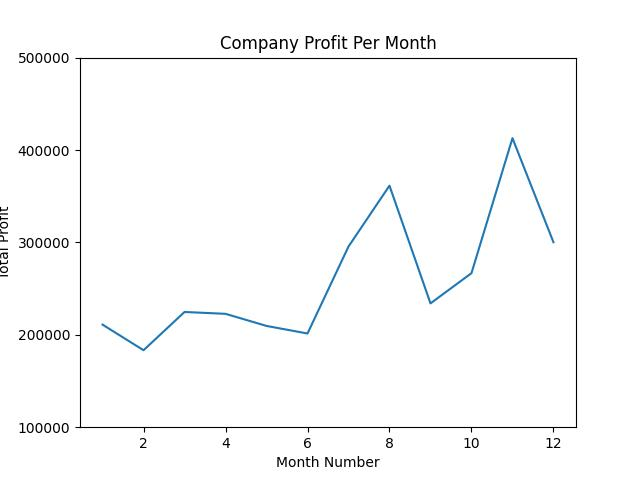
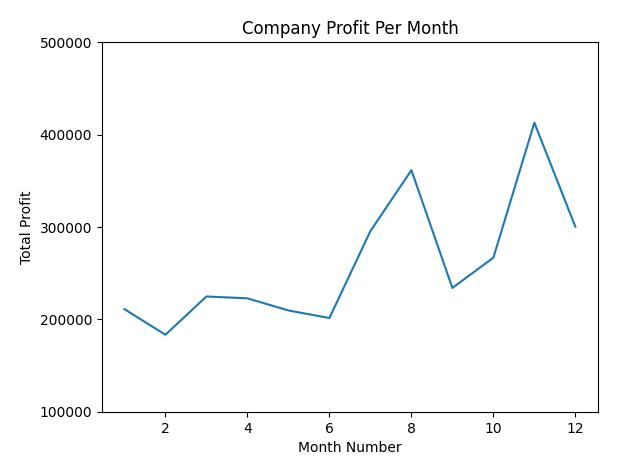
Matplotlib exercises.

diff --git a/exercises/matplotlib/company_profits.py b/exercises/matplotlib/company_profits.py
@@ -1,43 +1,44 @@
 import matplotlib.pyplot as plt
 import pandas as pd
 
-if __name__ == '__main__':
-    # Read the company_sales_data dataset and create a line plot showcasing their total profit per month.
-    df = pd.read_csv("datasets\\company_sales_data.csv")
-    print(df)
 
-    plt.plot(df['month_number'], df['total_profit'])
+def line_plots(dfl, x_pos):
+    print(dfl)
+
+    # Read the company_sales_data dataset and create a line plot showcasing their total profit per month.
+    plt.plot(dfl['month_number'], dfl['total_profit'])
     plt.yticks([100000, 200000, 300000, 400000, 500000])
     plt.title("Company Profit Per Month")
     plt.xlabel("Month Number")
     plt.ylabel("Total Profit")
     # plt.show()
-    plt.savefig("plots\\monthly_profits_1.jpg")
+    plt.savefig("plots\\monthly_profits_1.jpg", bbox_inches="tight", pad_inches=0.2)
 
     plt.cla()
 
     # Same plot, but stylize it further.
-    plt.plot(df['month_number'], df['total_profit'], color='red', linestyle='dotted', linewidth=3,
+    plt.plot(dfl['month_number'], dfl['total_profit'], color='red', linestyle='dotted', linewidth=3,
              label='Profit data of last year', marker='o', markerfacecolor='black')
     plt.yticks([100000, 200000, 300000, 400000, 500000])
     plt.title("Company Profit Per Month")
     plt.xlabel("Month Number")
     plt.ylabel("Total Profit")
+    plt.xticks(x_pos)
     plt.grid()
     plt.legend()
     # plt.show()
-    plt.savefig("plots\\monthly_profits_2.jpg")
+    plt.savefig("plots\\monthly_profits_2.jpg", bbox_inches="tight", pad_inches=0.2)
 
     plt.cla()
 
     # New plot, showcasing every product separately.
-    plt.plot(df['month_number'], df['facecream'], label='Face cream', marker='o')
-    plt.plot(df['month_number'], df['facewash'], label='Face wash', marker='o')
-    plt.plot(df['month_number'], df['toothpaste'], label='Tooth paste', marker='o')
-    plt.plot(df['month_number'], df['bathingsoap'], label='Bathing soap', marker='o')
-    plt.plot(df['month_number'], df['shampoo'], label='Shampoo', marker='o')
-    plt.plot(df['month_number'], df['moisturizer'], label='Moisturizer', marker='o')
-    plt.xticks([1, 2, 3, 4, 5, 6, 7, 8, 9, 10, 11, 12])
+    plt.plot(dfl['month_number'], dfl['facecream'], label='Face cream', marker='o')
+    plt.plot(dfl['month_number'], dfl['facewash'], label='Face wash', marker='o')
+    plt.plot(dfl['month_number'], dfl['toothpaste'], label='Tooth paste', marker='o')
+    plt.plot(dfl['month_number'], dfl['bathingsoap'], label='Bathing soap', marker='o')
+    plt.plot(dfl['month_number'], dfl['shampoo'], label='Shampoo', marker='o')
+    plt.plot(dfl['month_number'], dfl['moisturizer'], label='Moisturizer', marker='o')
+    plt.xticks(x_pos)
     plt.title("Company Profit Per Month")
     plt.xlabel("Month Number")
     plt.ylabel("Total Profit")
@@ -45,3 +46,59 @@ if __name__ == '__main__':
     plt.legend()
     # plt.show()
     plt.savefig("plots\\monthly_profits_3.jpg")
+
+    plt.close()
+
+
+def scatter_plots(dfl, x_pos):
+    plt.scatter(dfl['month_number'], dfl['toothpaste'], label='Tooth paste sales data', color='cyan', edgecolors='black', linewidths=1.5)
+    plt.xticks(x_pos)
+    plt.xlabel('Month Number')
+    plt.ylabel('Number of units sold')
+    plt.grid()
+    plt.legend()
+    # plt.show()
+    plt.savefig("plots\\scatter_toothpaste.jpg")
+
+    plt.close()
+
+
+def bar_plots(dfl, x_pos):
+    plt.bar(x_pos - 0.2, dfl['facecream'], width=0.4, label='Face Cream')
+    plt.bar(x_pos + 0.2, dfl['facewash'], width=0.4, label='Face Wash')
+    plt.title("Face Wash and Face Cream Sales Data")
+    plt.xlabel('Month Number')
+    plt.ylabel('Sale Units')
+    plt.xticks(x_pos)
+    plt.grid(linestyle='--')
+    # plt.show()
+    plt.savefig("plots\\bar_face_products.jpg")
+
+    plt.close()
+
+
+def histograms(dfl):
+    profit_range = [150000, 200000, 250000, 300000, 350000, 400000, 450000]
+    plt.hist(dfl['total_profit'], label='Profit Data', color='g',
+             rwidth=0.90,
+             bins=profit_range)
+
+    plt.title("Total Profit Data")
+    plt.xlabel("Profit Range in Dollars")
+    plt.ylabel("# of months this range was accomplished")
+    plt.grid(linestyle='--')
+    # plt.show()
+    plt.savefig("plots\\histogram_profits.jpg")
+
+    plt.close()
+
+
+if __name__ == '__main__':
+    data = "datasets\\company_sales_data.csv"
+    df = pd.read_csv(data)
+    months = df['month_number']
+
+    line_plots(df, months)
+    scatter_plots(df, months)
+    bar_plots(df, months)
+    histograms(df)
